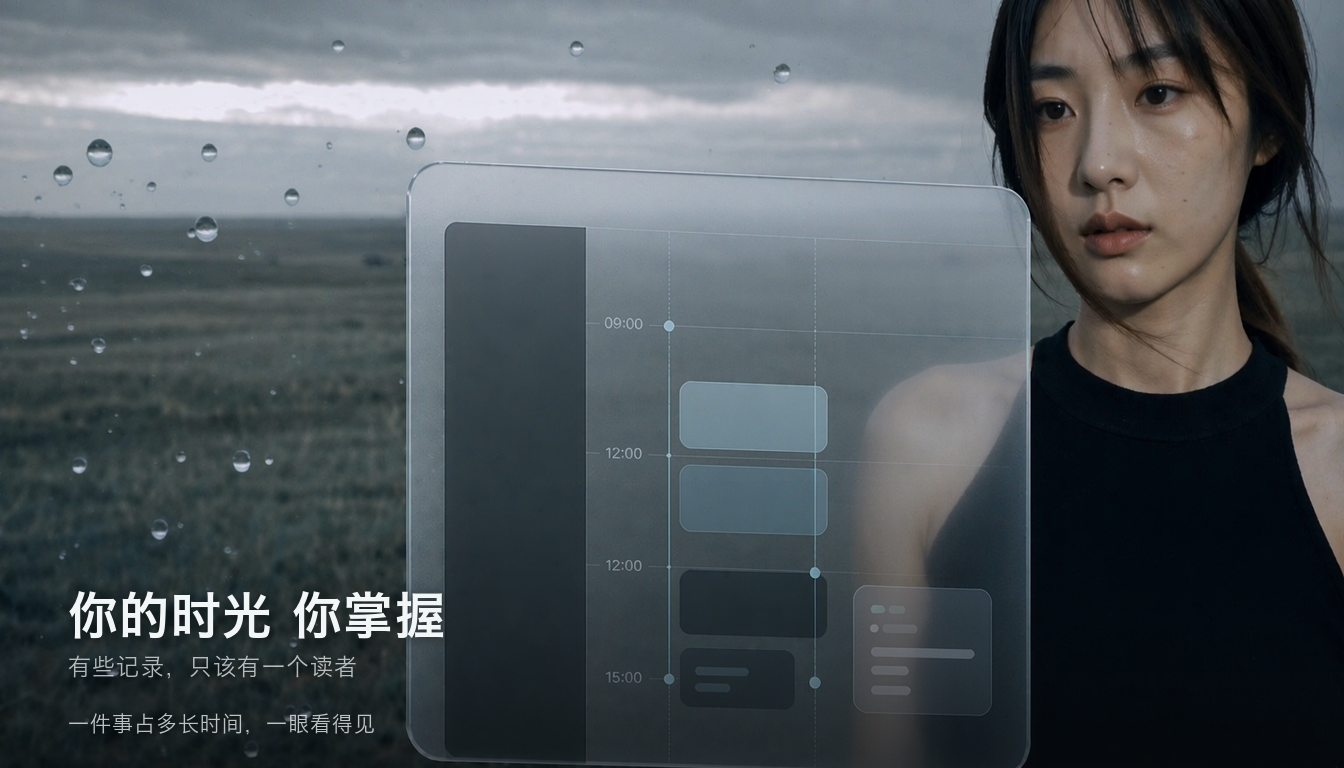
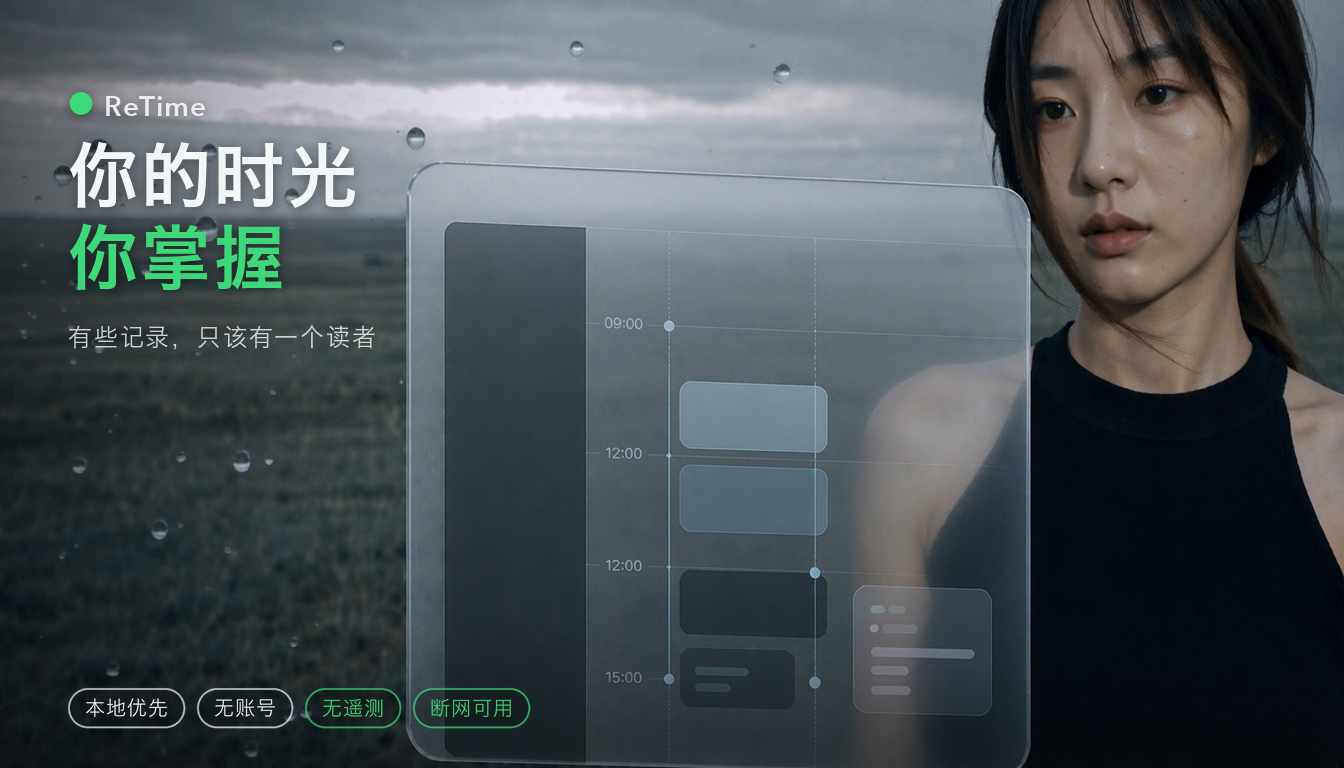
docs: 横版海报重排文字层（加品牌名与四条主张，去掉产品句）
- 左上新增品牌锁定「● ReTime」，与两行大标题同处一块
- 标题放大：你的时光（白）/ 你掌握（品牌绿 #3ED87A），70px 双行
- 副标「有些记录，只该有一个读者」24px
- 底部加四枚描边胶囊：本地优先 / 无账号 / 无遥测（绿）/ 断网可用（绿），3x 超采样绘制
- 删掉「一件事占多长时间，一眼看得见」
- 文件名不变（README 只更新 alt 描述）

diff --git a/README.md b/README.md
@@ -1,7 +1,7 @@
 # ReTime
 
 <p align="center">
-  <img src="assets/ReTime-横版海报.png" width="860" alt="ReTime 横版海报：日程时间轴界面，一件事占多长时间一眼看得见">
+  <img src="assets/ReTime-横版海报.png" width="860" alt="ReTime 横版海报：你的时光 你掌握 —— 日程时间轴界面，本地优先 / 无账号 / 无遥测 / 断网可用">
 </p>
 
 **你的时光 你掌握**
